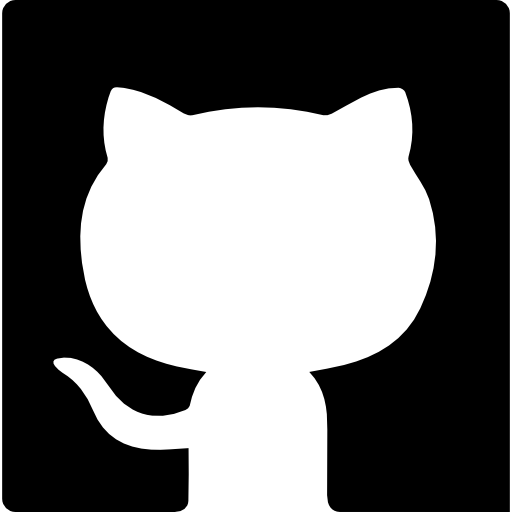
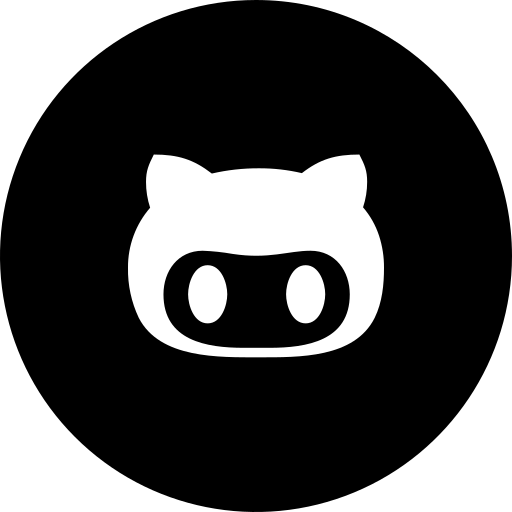
FIX: 아이콘 변경 및 grid 3열

diff --git a/_includes/footer.html b/_includes/footer.html
@@ -9,7 +9,12 @@
       </div>
       <div>
         <a href="https://github.com/daru1027/" target="_blank">
-          <img src="/images/gmail.png" width="25">
+          <img src="/images/email.png" width="25">
+        </a>
+      </div>
+      <div>
+        <a href="https://github.com/daru1027/" target="_blank">
+          <img src="/images/linkedin.png" width="25">
         </a>
       </div>
     </div>

diff --git a/_sass/tale/_layout.scss b/_sass/tale/_layout.scss
@@ -94,5 +94,5 @@ footer {
 #wrap {
   display: grid;
   justify-content: center;
-  grid-template-columns: 30px 30px;
+  grid-template-columns: 30px 30px 30px;
 }
